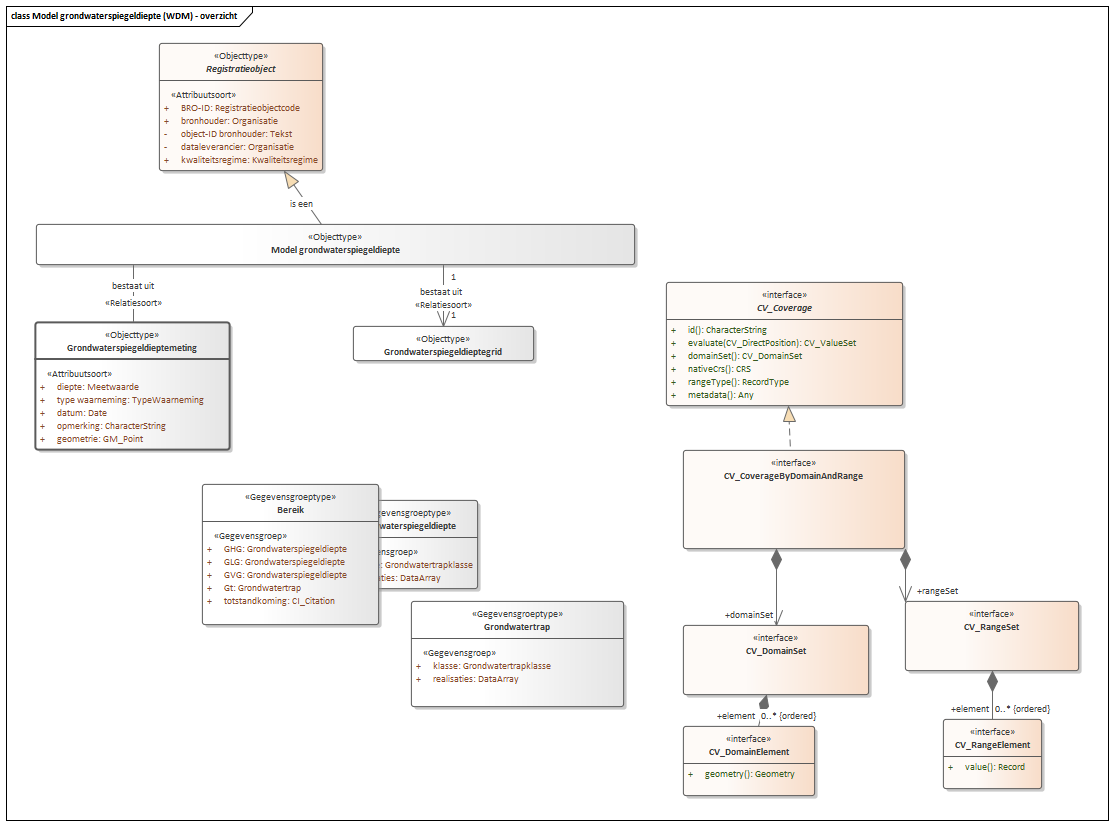
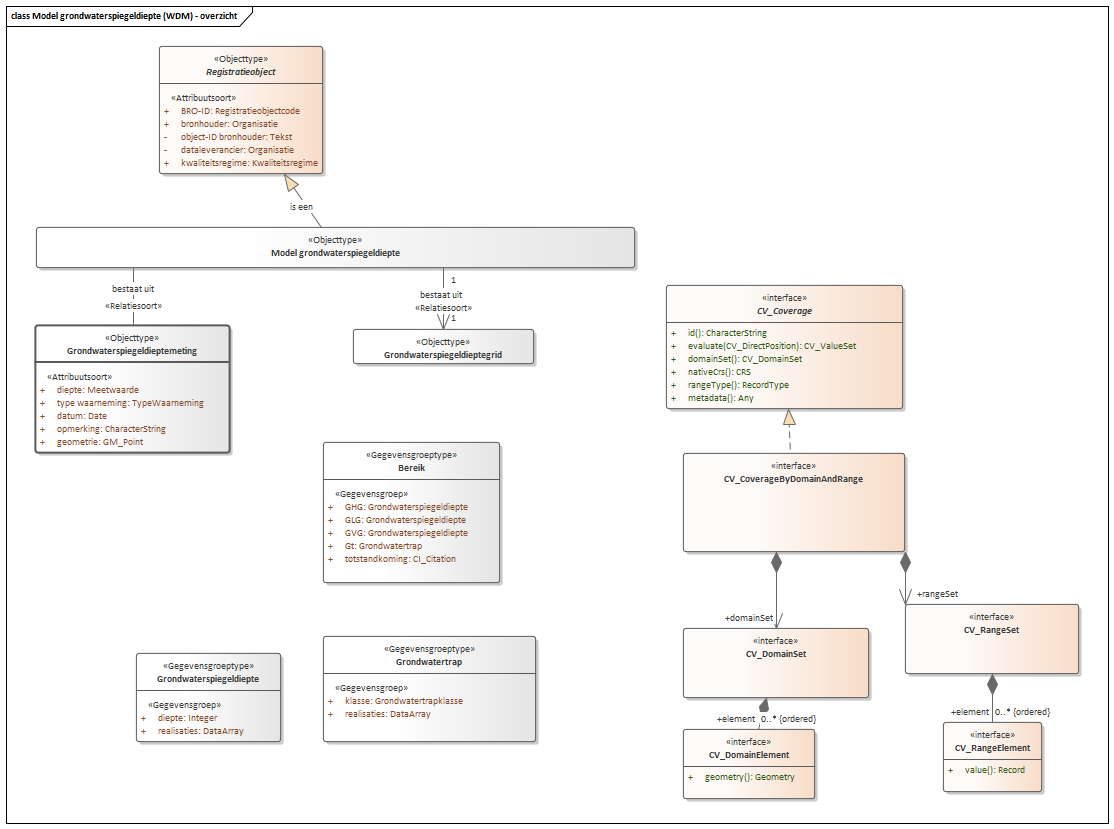
Conceptualmodel-ModelgrondwaterspiegeldiepteWDM-conceptueel-1.0-1-20200721-20201027-115249

diff --git a/data/WDM-cat.msword.html b/data/WDM-cat.msword.html
@@ -15,7 +15,7 @@
    <body>
       <p>Conceptual model/Model grondwaterspiegeldiepte (WDM) - conceptueel/20200721</p>
       <p>Imvertor: 1.61.3</p>
-      <p>Model release: Conceptualmodel-ModelgrondwaterspiegeldiepteWDM-conceptueel-1.0-1-20200721-20201027-115204</p>
+      <p>Model release: Conceptualmodel-ModelgrondwaterspiegeldiepteWDM-conceptueel-1.0-1-20200721-20201027-115249</p>
       <hr>
       <section>
          <h1>Artikel 1 Definitie van registratieobject, entiteiten en attributen</h1>
@@ -50,7 +50,7 @@
          <section>
             <h2>Het domeinmodel</h2>
             <section id="">
-               <div class="imageinfo overview"><img src="Images/EAID_32DF32C8_5066_4b21_A5D5_EE7F2DB49F77.png" usemap="#imagemap-EAID_32DF32C8_5066_4b21_A5D5_EE7F2DB49F77" alt="Diagram "><map name="imagemap-EAID_32DF32C8_5066_4b21_A5D5_EE7F2DB49F77"><area shape="rect" alt="Grondwaterspiegeldieptegrid" coords="353,326,534,361" href="#graph_EAID_330757FF_F73A_4c69_AFB0_B255971A3DF7"><area shape="rect" alt="Grondwatertrap" coords="411,601,624,707" href="#graph_EAID_58AEC090_D83F_4707_B418_3D9C79CC58CE"><area shape="rect" alt="Bereik" coords="202,484,379,625" href="#graph_EAID_C0D21A75_9A6A_446d_8157_B61183B58A48"><area shape="rect" alt="Grondwaterspiegeldieptemeting" coords="35,322,230,450" href="#graph_EAID_BEAD8A51_C8E2_4fb6_8DF2_52ED4E1FB678"><area shape="rect" alt="Registratieobject" coords="159,43,323,171" href="#graph_EAID_3A7AEE32_4ECA_4822_9009_121A0679605E"><area shape="rect" alt="Model grondwaterspiegeldiepte" coords="36,224,635,265" href="#graph_EAID_FCE5BAFD_33CD_4c9b_878F_04A61B1ED0BE"><area shape="rect" alt="Grondwaterspiegeldiepte" coords="333,500,478,589" href="#graph_EAID_F09743D7_6B95_4243_A403_BEC64D04F7FF"></map><p><b>Model grondwaterspiegeldiepte (WDM)</b></p>
+               <div class="imageinfo overview"><img src="Images/EAID_32DF32C8_5066_4b21_A5D5_EE7F2DB49F77.png" usemap="#imagemap-EAID_32DF32C8_5066_4b21_A5D5_EE7F2DB49F77" alt="Diagram "><map name="imagemap-EAID_32DF32C8_5066_4b21_A5D5_EE7F2DB49F77"><area shape="rect" alt="Grondwaterspiegeldiepte" coords="136,653,281,742" href="#graph_EAID_F09743D7_6B95_4243_A403_BEC64D04F7FF"><area shape="rect" alt="Grondwaterspiegeldieptegrid" coords="353,329,534,364" href="#graph_EAID_330757FF_F73A_4c69_AFB0_B255971A3DF7"><area shape="rect" alt="Grondwatertrap" coords="323,636,536,742" href="#graph_EAID_58AEC090_D83F_4707_B418_3D9C79CC58CE"><area shape="rect" alt="Bereik" coords="323,442,500,583" href="#graph_EAID_C0D21A75_9A6A_446d_8157_B61183B58A48"><area shape="rect" alt="Grondwaterspiegeldieptemeting" coords="35,325,230,453" href="#graph_EAID_BEAD8A51_C8E2_4fb6_8DF2_52ED4E1FB678"><area shape="rect" alt="Registratieobject" coords="159,46,323,174" href="#graph_EAID_3A7AEE32_4ECA_4822_9009_121A0679605E"><area shape="rect" alt="Model grondwaterspiegeldiepte" coords="36,227,635,268" href="#graph_EAID_FCE5BAFD_33CD_4c9b_878F_04A61B1ED0BE"></map><p><b>Model grondwaterspiegeldiepte (WDM)</b></p>
                </div>
             </section>
          </section>
